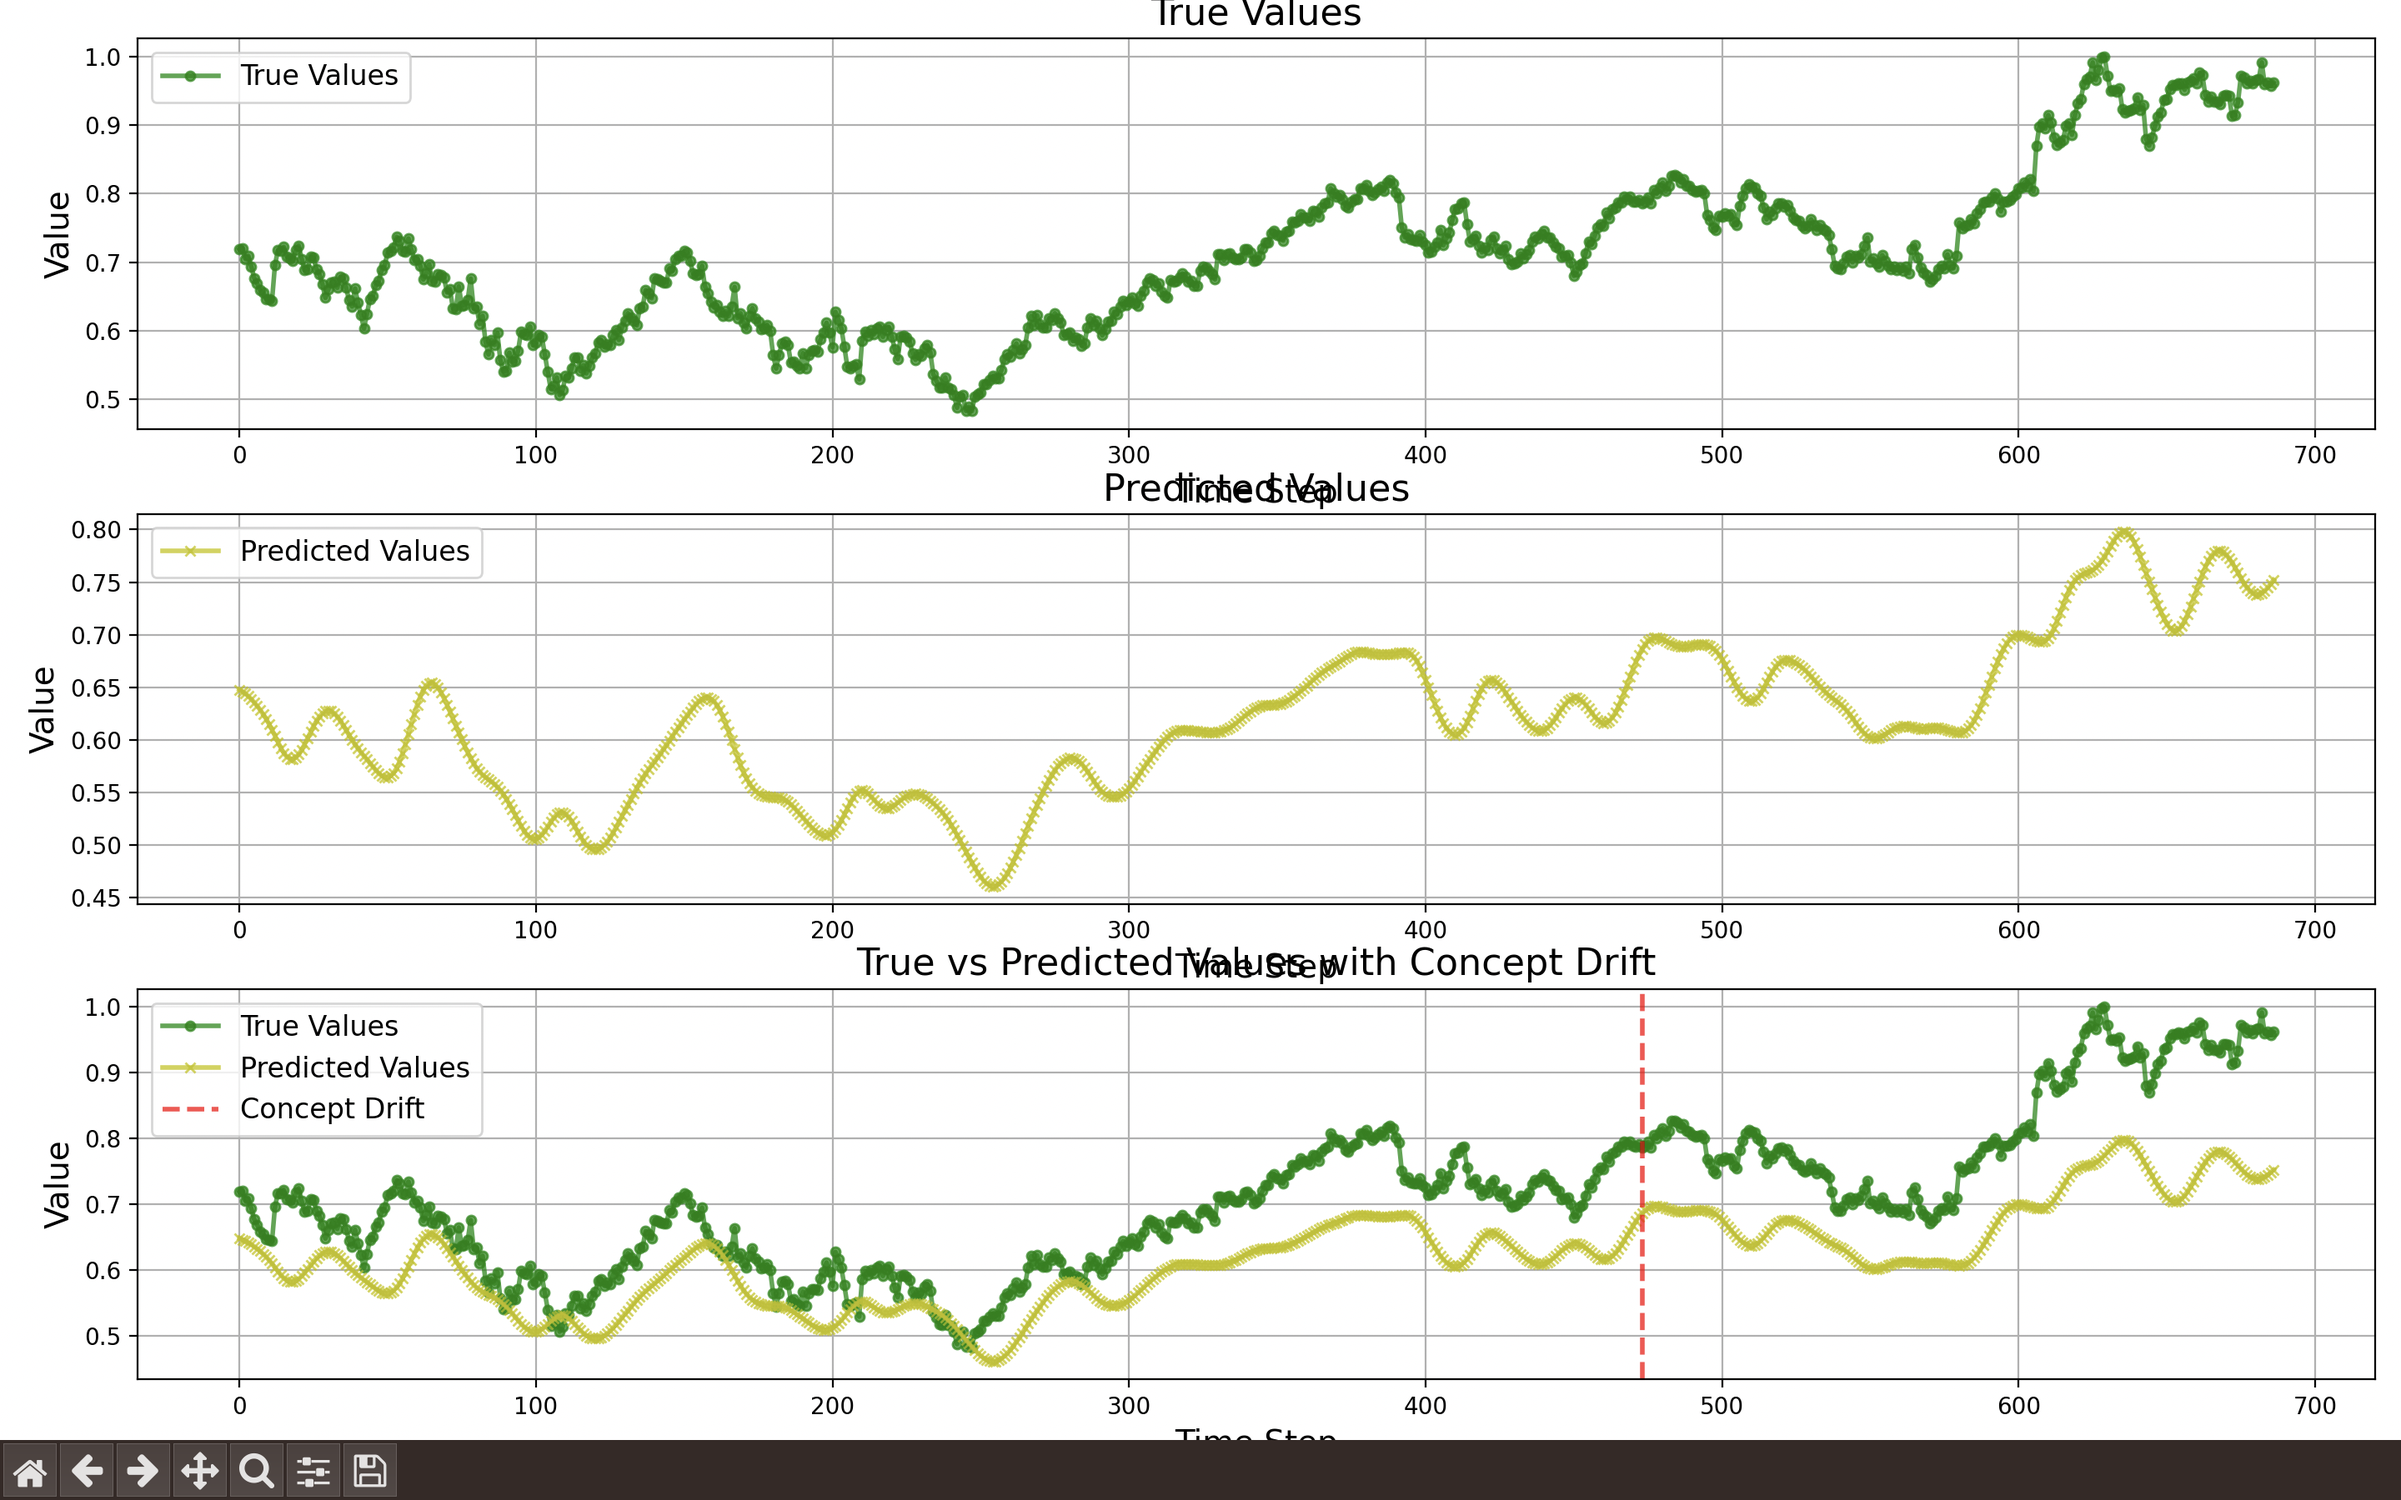
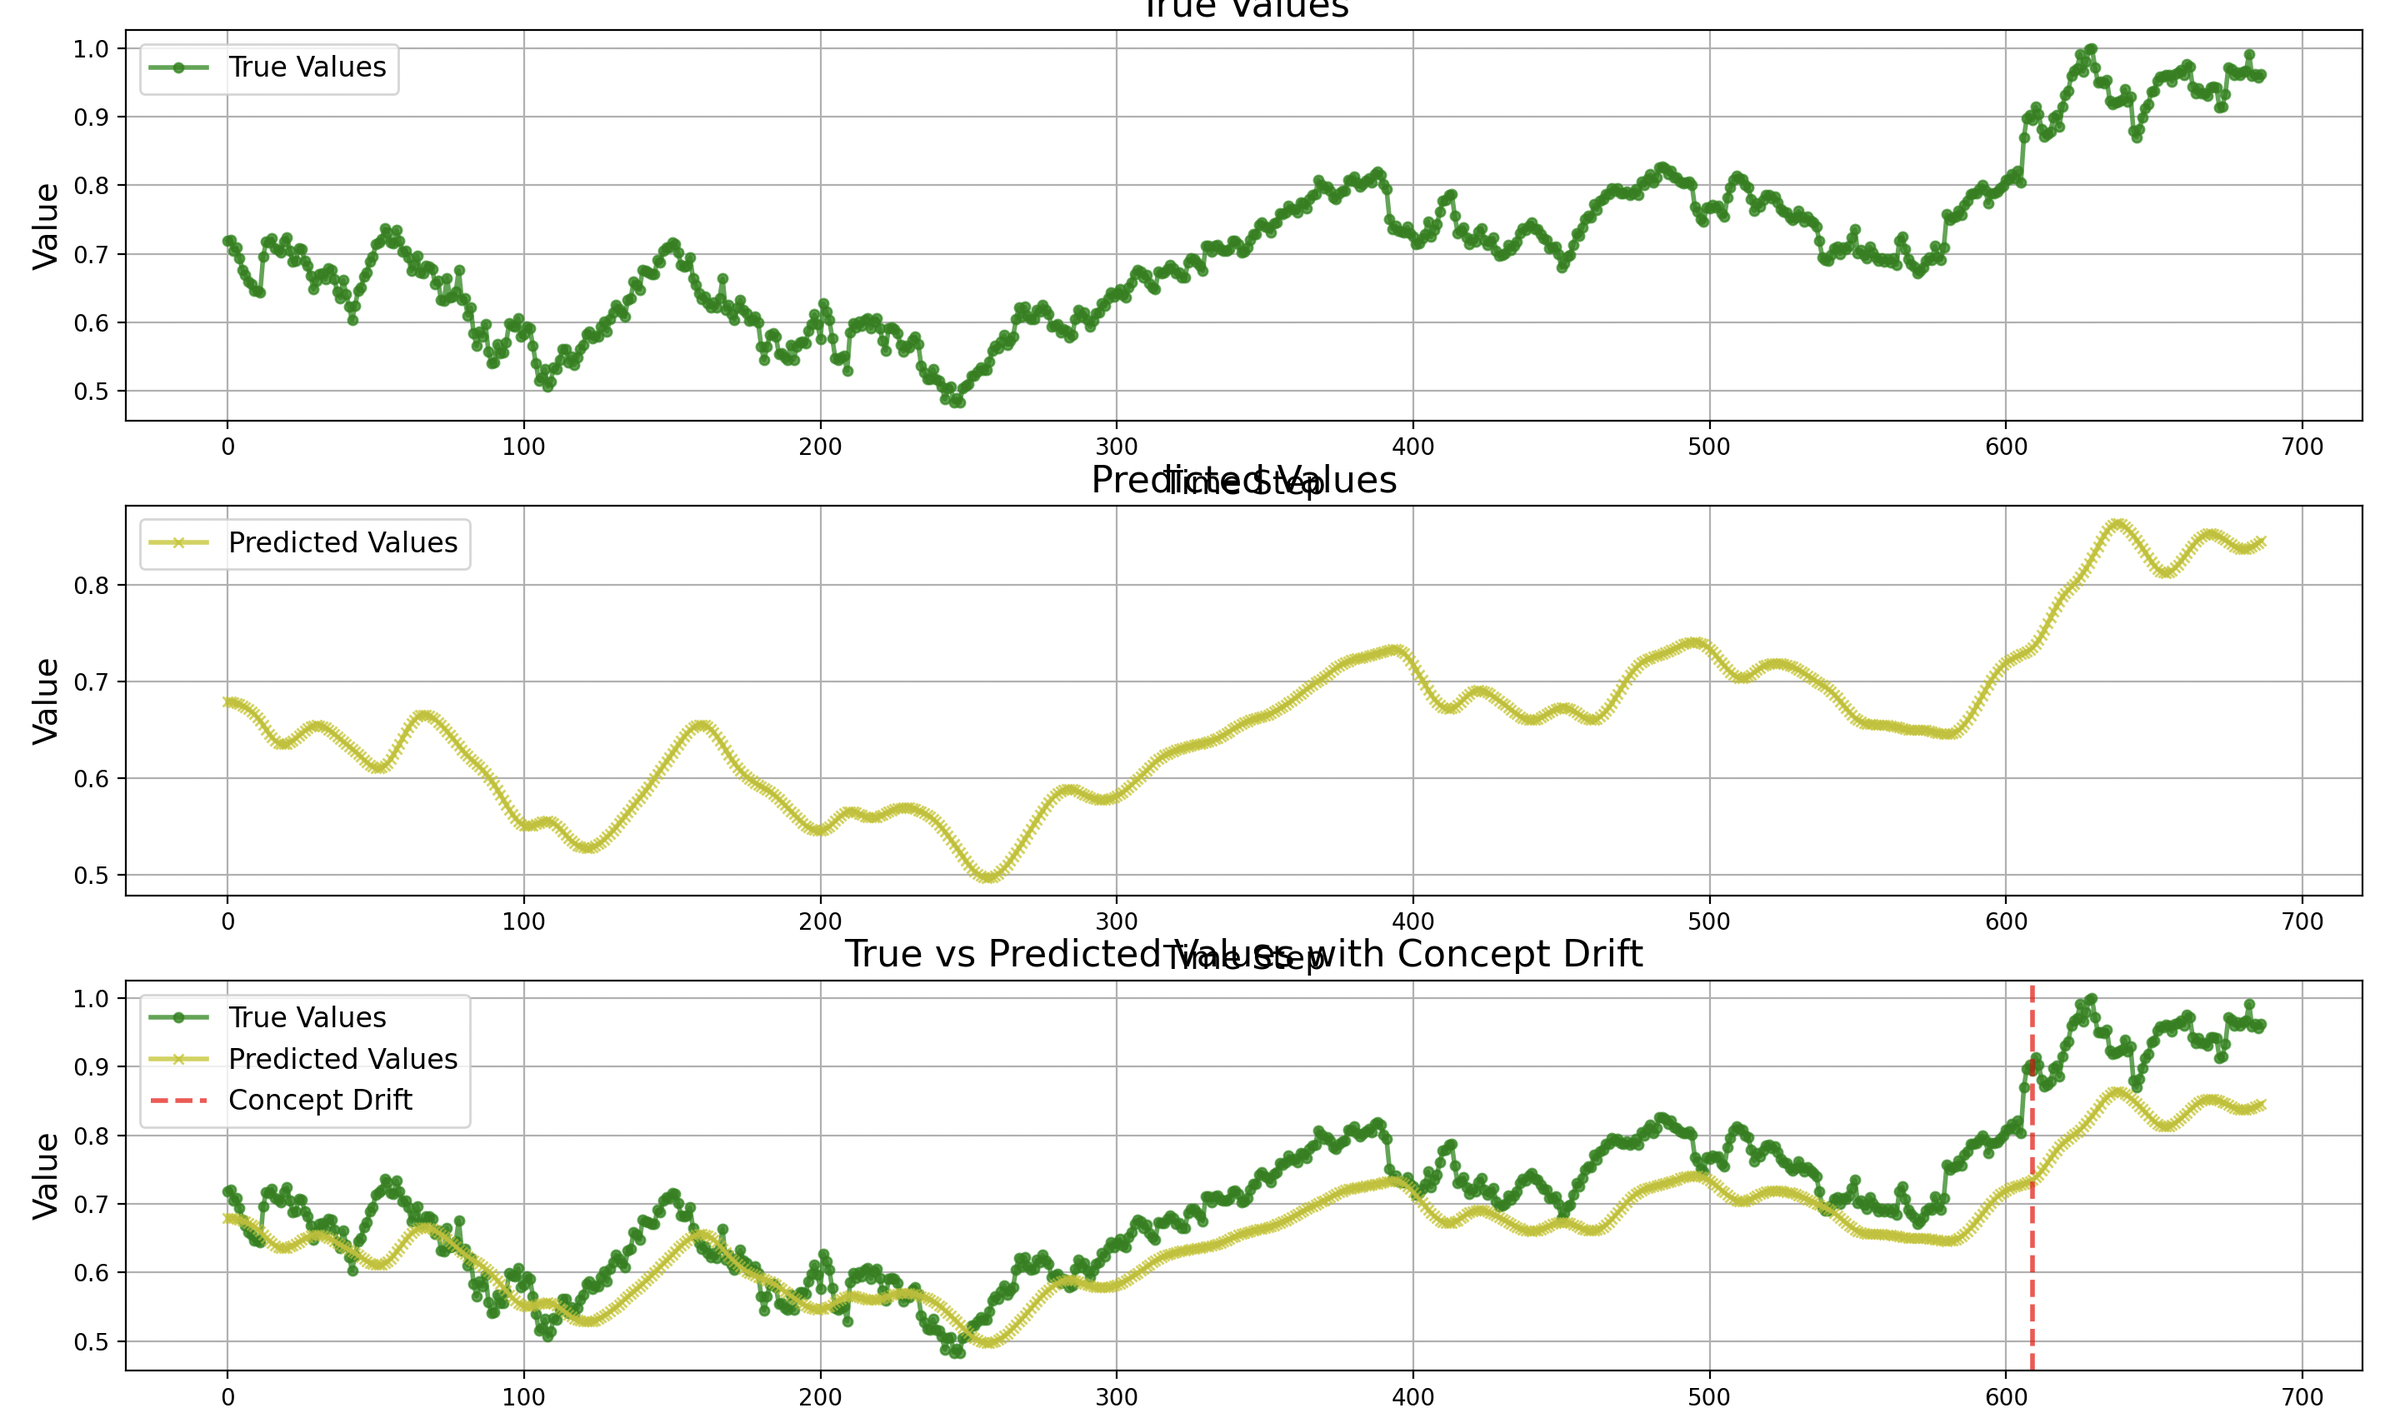
change on target drift

Changed region(s): [[0.0, 0.0, 1.0, 1.0], [0.8396, 0.2154, 0.8707, 0.2462], [0.7152, 0.2154, 0.7463, 0.2462]]

diff --git a/concept_drift_detection.py b/concept_drift_detection.py
@@ -17,7 +17,7 @@ from omegaconf import DictConfig
 import hydra
 from datetime import date
 import matplotlib.pyplot as plt
-from frouros.detectors.data_drift import KSTest, ChiSquareTest
+from frouros.detectors.data_drift import KSTest, ChiSquareTest, PSI
 from frouros.metrics import PrequentialError
 from frouros.detectors.concept_drift import DDM, ADWIN, PageHinkley
 from tensorflow.keras.layers import Dense, Dropout, LSTM, BatchNormalization
@@ -29,7 +29,9 @@ from Data_class_abstraction import BaseMetrics, Concept_Drift_Metrics, Target_dr
 from plotting import plot_results
 from sklearn.metrics import mean_squared_error, mean_absolute_error, r2_score
 import os
-from plotting import plot_results
+from plotting import plot_results, plot_target_drift
+from frouros.detectors.data_drift import IncrementalKSTest
+
 
 metric = PrequentialError(alpha=1.0)
 
@@ -56,17 +58,15 @@ class StockDataPipeline:
         try:
             stock_data = yf.download(self.stock_symbol, START, TODAY)
             stock_data.dropna(inplace=True)
-            open_data = stock_data['Open'].values.reshape(-1, 1)
             data = stock_data['Close'].values.reshape(-1, 1)
             data_scaled = self.scaler.fit_transform(data)
-            open_data_scaled = self.scaler.fit_transform(open_data)  # Use transform instead of fit_transform
             
             # Split into training (70%) and current (30%) data
             split_idx = int(len(data_scaled) * self.split_ratio)
             self.X_ref, self.y_ref = self._create_sequences(data_scaled[:split_idx])
             self.X_curr, self.y_curr = self._create_sequences(data_scaled[split_idx:])
-            self.open_reference = open_data_scaled[:split_idx]
-            self.open_current = open_data_scaled[split_idx:]
+            self.reference = data_scaled[:split_idx]
+            self.current = data_scaled[split_idx:]
             logger.info("Data fetched and preprocessed successfully.")
         except Exception as e:
             logger.error(f"Error fetching data: {e}")
@@ -123,16 +123,19 @@ class StockDataPipeline:
 class ConceptDriftDetector:
     def __init__(self, warning_level=1.0, drift_level=2.0, min_num_instances=25, feature_drift_threshold=0.05, target_drift_threshold=0.05):
         self.detector = PageHinkley()  
-        self.feature_drift_detector = KSTest()  
-        self.target_drift_detector = ChiSquareTest() 
+        self.target_drift_detector = KSTest()  # Initialize Incremental KS test detector
         self.drift_detected = False
         self.drift_point = None  
+        self.target_drift_point = None  
         self.target_drift_threshold = target_drift_threshold  
         self.feature_drift_threshold = feature_drift_threshold
         self.y_true_list = []  
         self.y_pred_list = []  
         self.metrics = Concept_Drift_Metrics()
         self.Target_metrics = Target_drift_Metircs()
+        self.p_values = []  # Store p-values for plotting
+        self.steps = []  
+        self.window_size = 60
 
         # Initialize config with necessary parameters
         self.config = {
@@ -141,25 +144,60 @@ class ConceptDriftDetector:
             'delta': 0.005  # Example value, adjust as needed
         }
 
-    def detect_target_drift(self, y_train, y_test):
-        y_train = np.array(y_train).flatten()  
-        y_test = np.array(y_test).flatten()  
-        self.target_drift_detector.fit(X=y_train)
-        drift_detected = self.target_drift_detector.compare(X=y_test)[0]
-        if drift_detected.p_value < self.target_drift_threshold:
-            print(f"Target drift detected: {drift_detected}")
+    def detect_target_drift(self, reference, current):
+        reference = np.array(reference).flatten()
+        current = np.array(current).flatten()
+
+        # Extract the last portion of the reference data equivalent to the length of the current data
+        reference_equivalent = reference[-len(current):]
+
+        # Perform KS test between the reference_equivalent and current data
+        self.target_drift_detector.fit(X=reference_equivalent)
+        test, _ = self.target_drift_detector.compare(current)
+
+        self.p_values.append(test.p_value)  # Store p-value for plotting
+        self.steps.append(len(current) // self.window_size)  # Store step for plotting
+
+        if test.p_value < self.target_drift_threshold:
+            print(f"Target drift detected: p-value = {test.p_value:.4f}")
+            self.target_drift_point = len(current)  # Store drift point
             self.Target_metrics.update_metrics(
                 step=len(self.Target_metrics.steps),
-                drift_point=len(self.Target_metrics.steps),
-                p_value=drift_detected.p_value  
+                target_drift_point=len(self.Target_metrics.steps),
+                p_value=test.p_value
             )
         else:
-            print(f"No target drift detected")
+            print(f"No target drift detected: p-value = {test.p_value:.4f}")
             self.Target_metrics.update_metrics(
                 step=len(self.Target_metrics.steps),
-                drift_point=None,
-                p_value=drift_detected.p_value  
+                target_drift_point=None,
+                p_value=test.p_value
             )
+
+        # Plot the distributions of reference and current
+        self.plot_distributions(reference_equivalent, current)
+
+    def plot_distributions(self, reference, current):
+        # Scale the data to the same range
+        scaler = MinMaxScaler()
+        reference_scaled = scaler.fit_transform(reference.reshape(-1, 1)).flatten()
+        current_scaled = scaler.transform(current.reshape(-1, 1)).flatten()
+
+        plt.figure(figsize=(10, 6), dpi=100)
+
+        # Plot histograms of reference and current data
+        plt.hist(reference_scaled, bins=30, alpha=0.5, label="Reference Data", color="blue", edgecolor='black')
+        plt.hist(current_scaled, bins=30, alpha=0.5, label="Current Data", color="green", edgecolor='black')
+
+        plt.title("Histogram of Scaled Data")
+        plt.xlabel("Scaled Value")
+        plt.ylabel("Frequency")
+        plt.legend()
+
+        plt.show()
+
+    
+
     ###  concept drift detection methods directly use model performance metrics (like error rate) to detect drift. DDM, Page-Hinkley Test
     def stream_test(self, X_curr, y_curr, pipeline):
         """Simulate data stream over current_data."""
@@ -268,7 +306,7 @@ def main(cfg: DictConfig):
     stream_processor = StreamProcessor(pipeline, detector)
     stream_processor.run(pipeline.X_curr, pipeline.y_curr)    
 
-    detector.detect_target_drift(pipeline.y_ref, pipeline.y_curr)
+    detector.detect_target_drift(pipeline.reference, pipeline.current)
     plot_results(detector.y_true_list, detector.y_pred_list, detector.drift_point)
 
 if __name__ == "__main__":

diff --git a/t.py b/t.py
@@ -1,0 +1,74 @@
+import yfinance as yf
+import numpy as np
+import matplotlib.pyplot as plt
+from scipy.stats import ks_2samp
+from sklearn.preprocessing import MinMaxScaler
+
+# Fetch stock data using yfinance
+def fetch_stock_data(ticker, start, end):
+    stock_data = yf.download(ticker, start=start, end=end)
+    return stock_data['Close']
+
+# Define stock symbol and date ranges
+ticker = 'AAPL'
+reference_start = '2020-01-01'
+reference_end = '2020-12-31'
+current_start = '2023-01-01'
+current_end = '2023-12-31'
+
+# Fetch stock data
+reference_data = fetch_stock_data(ticker, reference_start, reference_end)
+current_data = fetch_stock_data(ticker, current_start, current_end)
+
+# Drop missing values
+reference_data = reference_data.dropna()
+current_data = current_data.dropna()
+
+# Perform KS test to check for drift
+def ks_test(reference_data, current_data):
+    statistic, p_value = ks_2samp(reference_data, current_data)
+    return {
+        "statistic": statistic,
+        "p_value": p_value
+    }
+
+# Run the KS test
+alpha = 0.05  # Significance level
+ks_test_result = ks_test(reference_data, current_data)
+
+# Visualization
+def plot_histograms(reference_data, current_data, ks_test_result, alpha=0.05):
+    # Scale the data to the same range
+    scaler = MinMaxScaler()
+    reference_data_scaled = scaler.fit_transform(reference_data.values.reshape(-1, 1)).flatten()
+    current_data_scaled = scaler.transform(current_data.values.reshape(-1, 1)).flatten()
+
+    fig, ax = plt.subplots(figsize=(10, 6), dpi=100)  # Adjusted figure size and DPI
+
+    # Plot histograms of reference and current data
+    ax.hist(reference_data_scaled, bins=30, alpha=0.5, label="Reference Data", color="blue", edgecolor='black')
+    ax.hist(current_data_scaled, bins=30, alpha=0.5, label="Current Data", color="green", edgecolor='black')
+
+    # KS statistic and p-value
+    statistic = ks_test_result["statistic"]
+    p_value = ks_test_result["p_value"]
+
+    # Drift decision
+    drift = p_value <= alpha
+    drift_str = (
+        f"Drift detected\np-value = {p_value:.4f}"
+        if drift
+        else f"No drift detected\np-value = {p_value:.4f}"
+    )
+    ax.text(0.7, 0.875, drift_str, transform=ax.transAxes, fontsize=10, bbox={
+        "boxstyle": "round", "facecolor": "red" if drift else "green", "alpha": 0.5,
+    })
+
+    ax.legend()
+    ax.set_title("Histogram of Scaled Stock Data with KS Test Results")
+    ax.set_xlabel("Scaled Stock Price")
+    ax.set_ylabel("Frequency")
+    plt.show()
+
+# Plot the histograms with KS test results
+plot_histograms(reference_data, current_data, ks_test_result, alpha=alpha)

diff --git a/Data_class_abstraction.py b/Data_class_abstraction.py
@@ -90,15 +90,15 @@ class Target_drift_Metircs(BaseMetrics):
         self,
         step: int,
         p_value: Optional[float] = None,
-        drift_point: Optional[int] = None
+        target_drift_point: Optional[int] = None
     ):
         self.steps.append(step)
         if p_value is not None:
             self.p_values.append(p_value)
             logger.info(f"Updated p_value: {p_value}")
-        if drift_point is not None:
-            self.drift_points.append(drift_point)
-            logger.info(f"Updated drift point: {drift_point}")
+        if target_drift_point is not None:
+            self.drift_points.append(target_drift_point)
+            logger.info(f"Updated drift point: {target_drift_point}")
 
     def get_latest_metrics(self) -> dict:
         """Retrieve the most recent metrics."""

diff --git a/plotting.py b/plotting.py
@@ -37,4 +37,16 @@ def plot_results(y_true_list, y_pred_list, drift_point):
 
 
 
+
+
+def plot_target_drift(p_values):
+    plt.figure(figsize=(10, 6))
+    plt.plot(p_values, label='p-value')
+    # plt.axhline(target_drift_threshold, color='r', linestyle='--', label='Threshold')
+    # plt.xlabel('Steps')
+    plt.ylabel('p-value')
+    plt.title('Target Drift Detection')
+    plt.legend()
+    plt.show()
+
     

diff --git a/README.md b/README.md
@@ -45,7 +45,8 @@ This project implements a stock data pipeline using yfinance for data fetching, 
 
     - Plot the true values, predicted values, and concept drift point using the `plot_results` function.
 
-    ![d](images/drift.png)
+    ![d_t](images/drift.png)
+    ![d_k](images/distribution.png)
 
 
 
